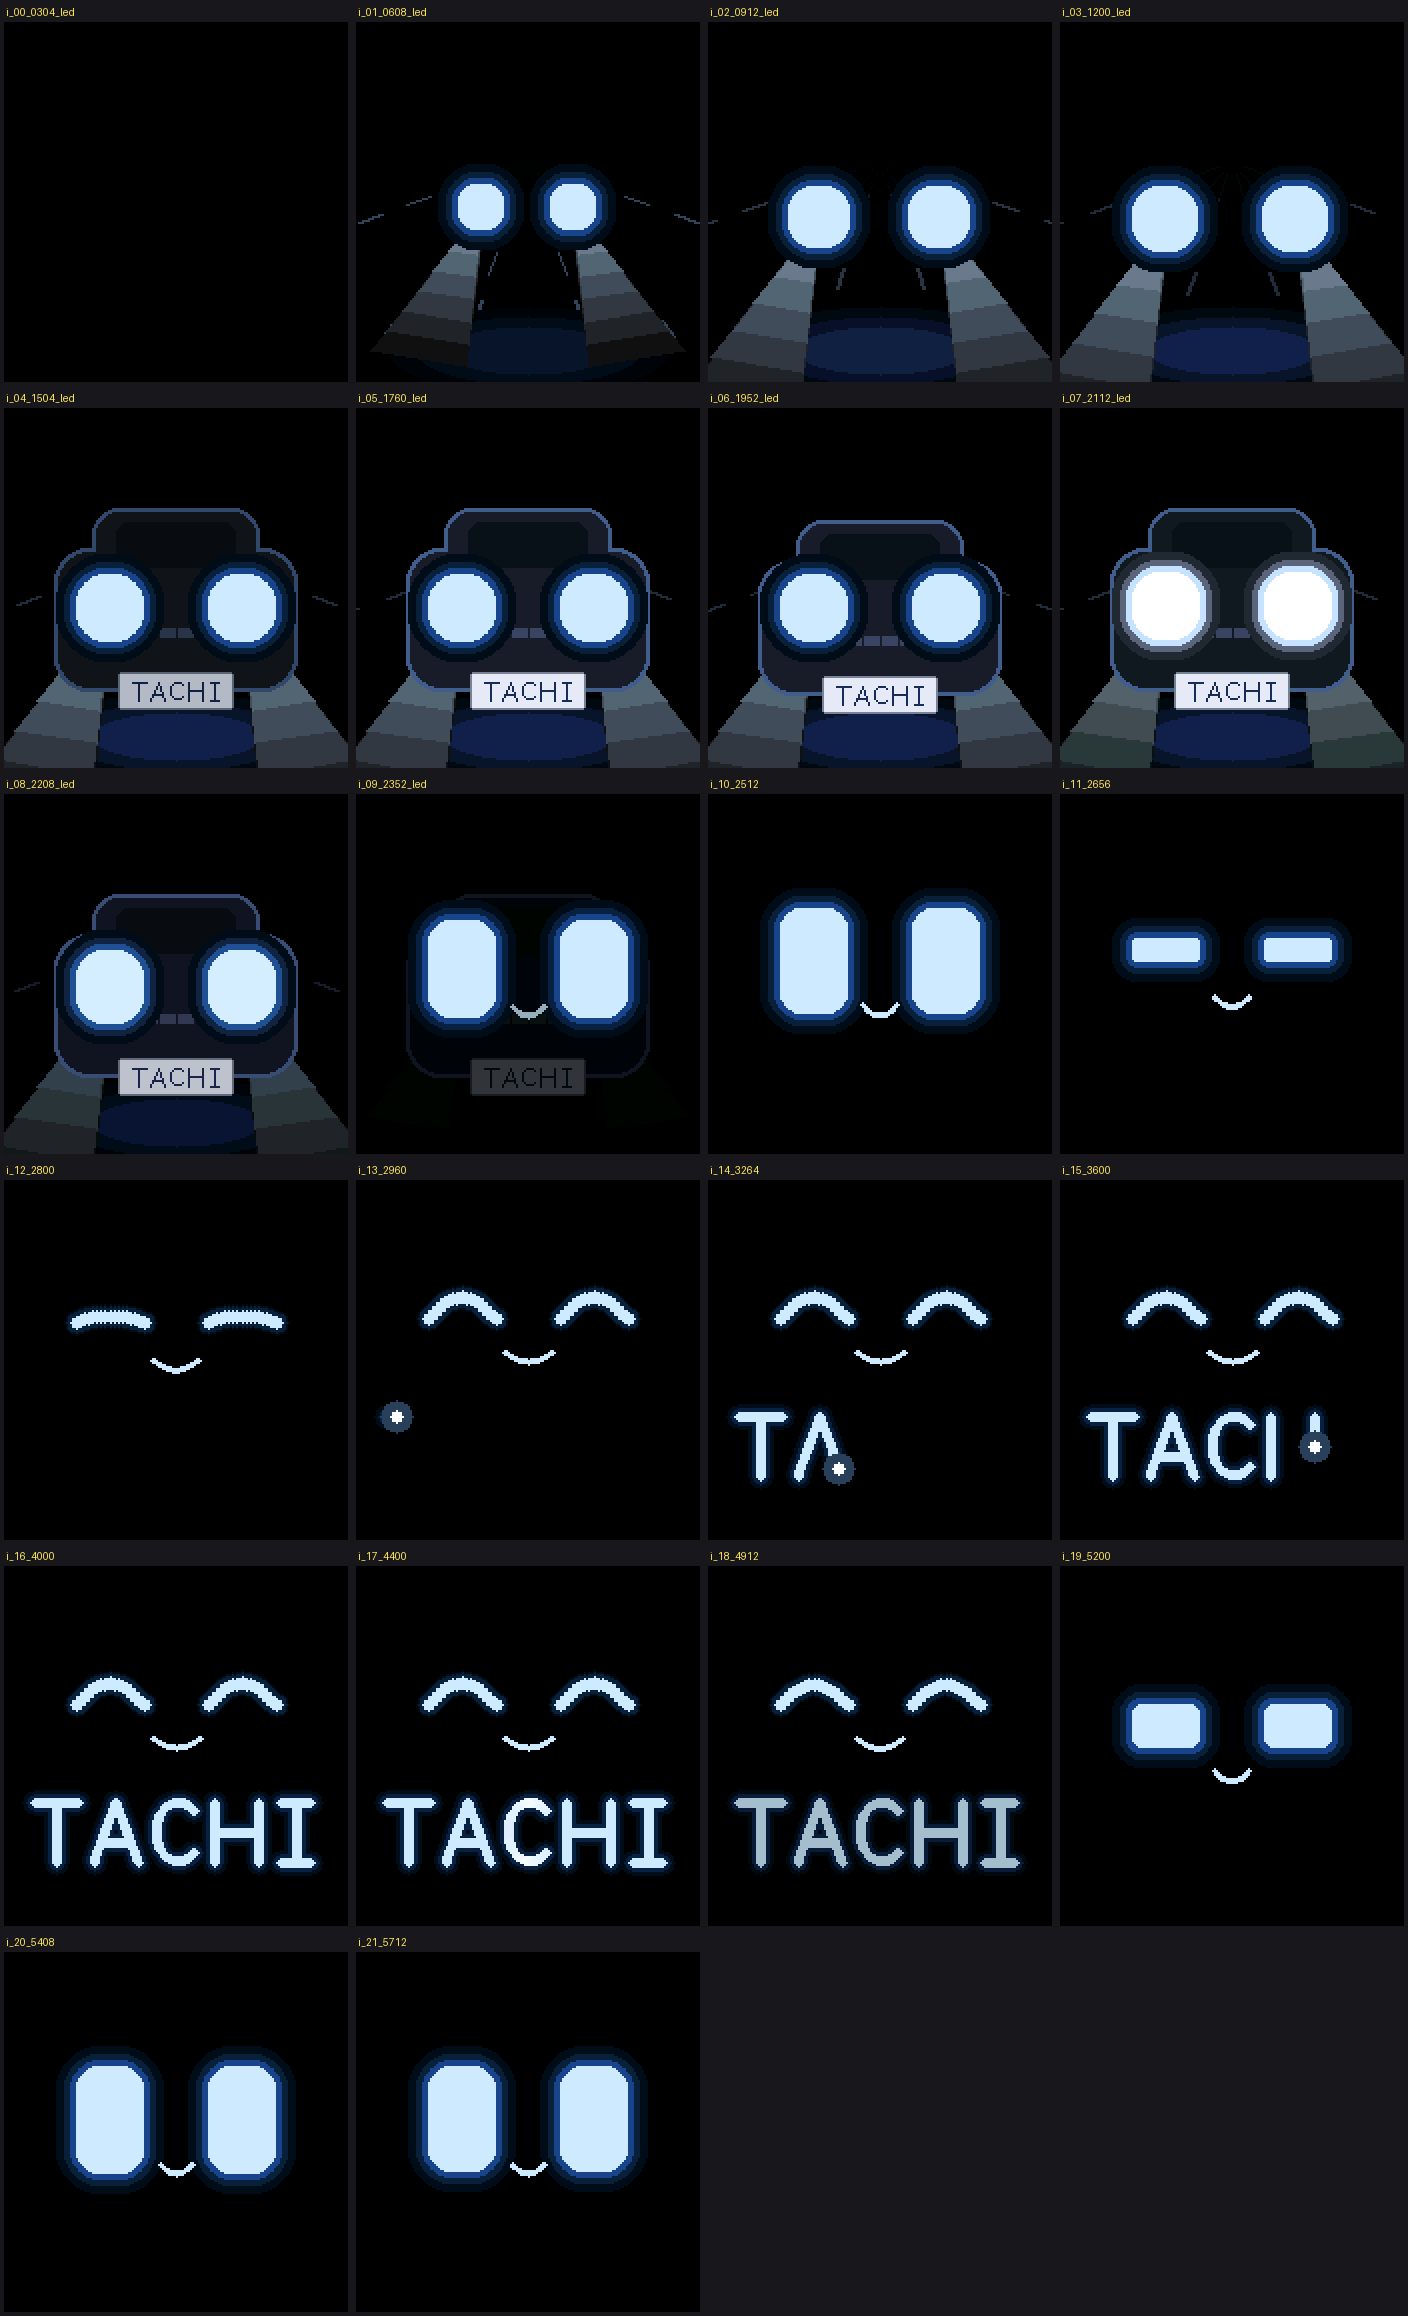
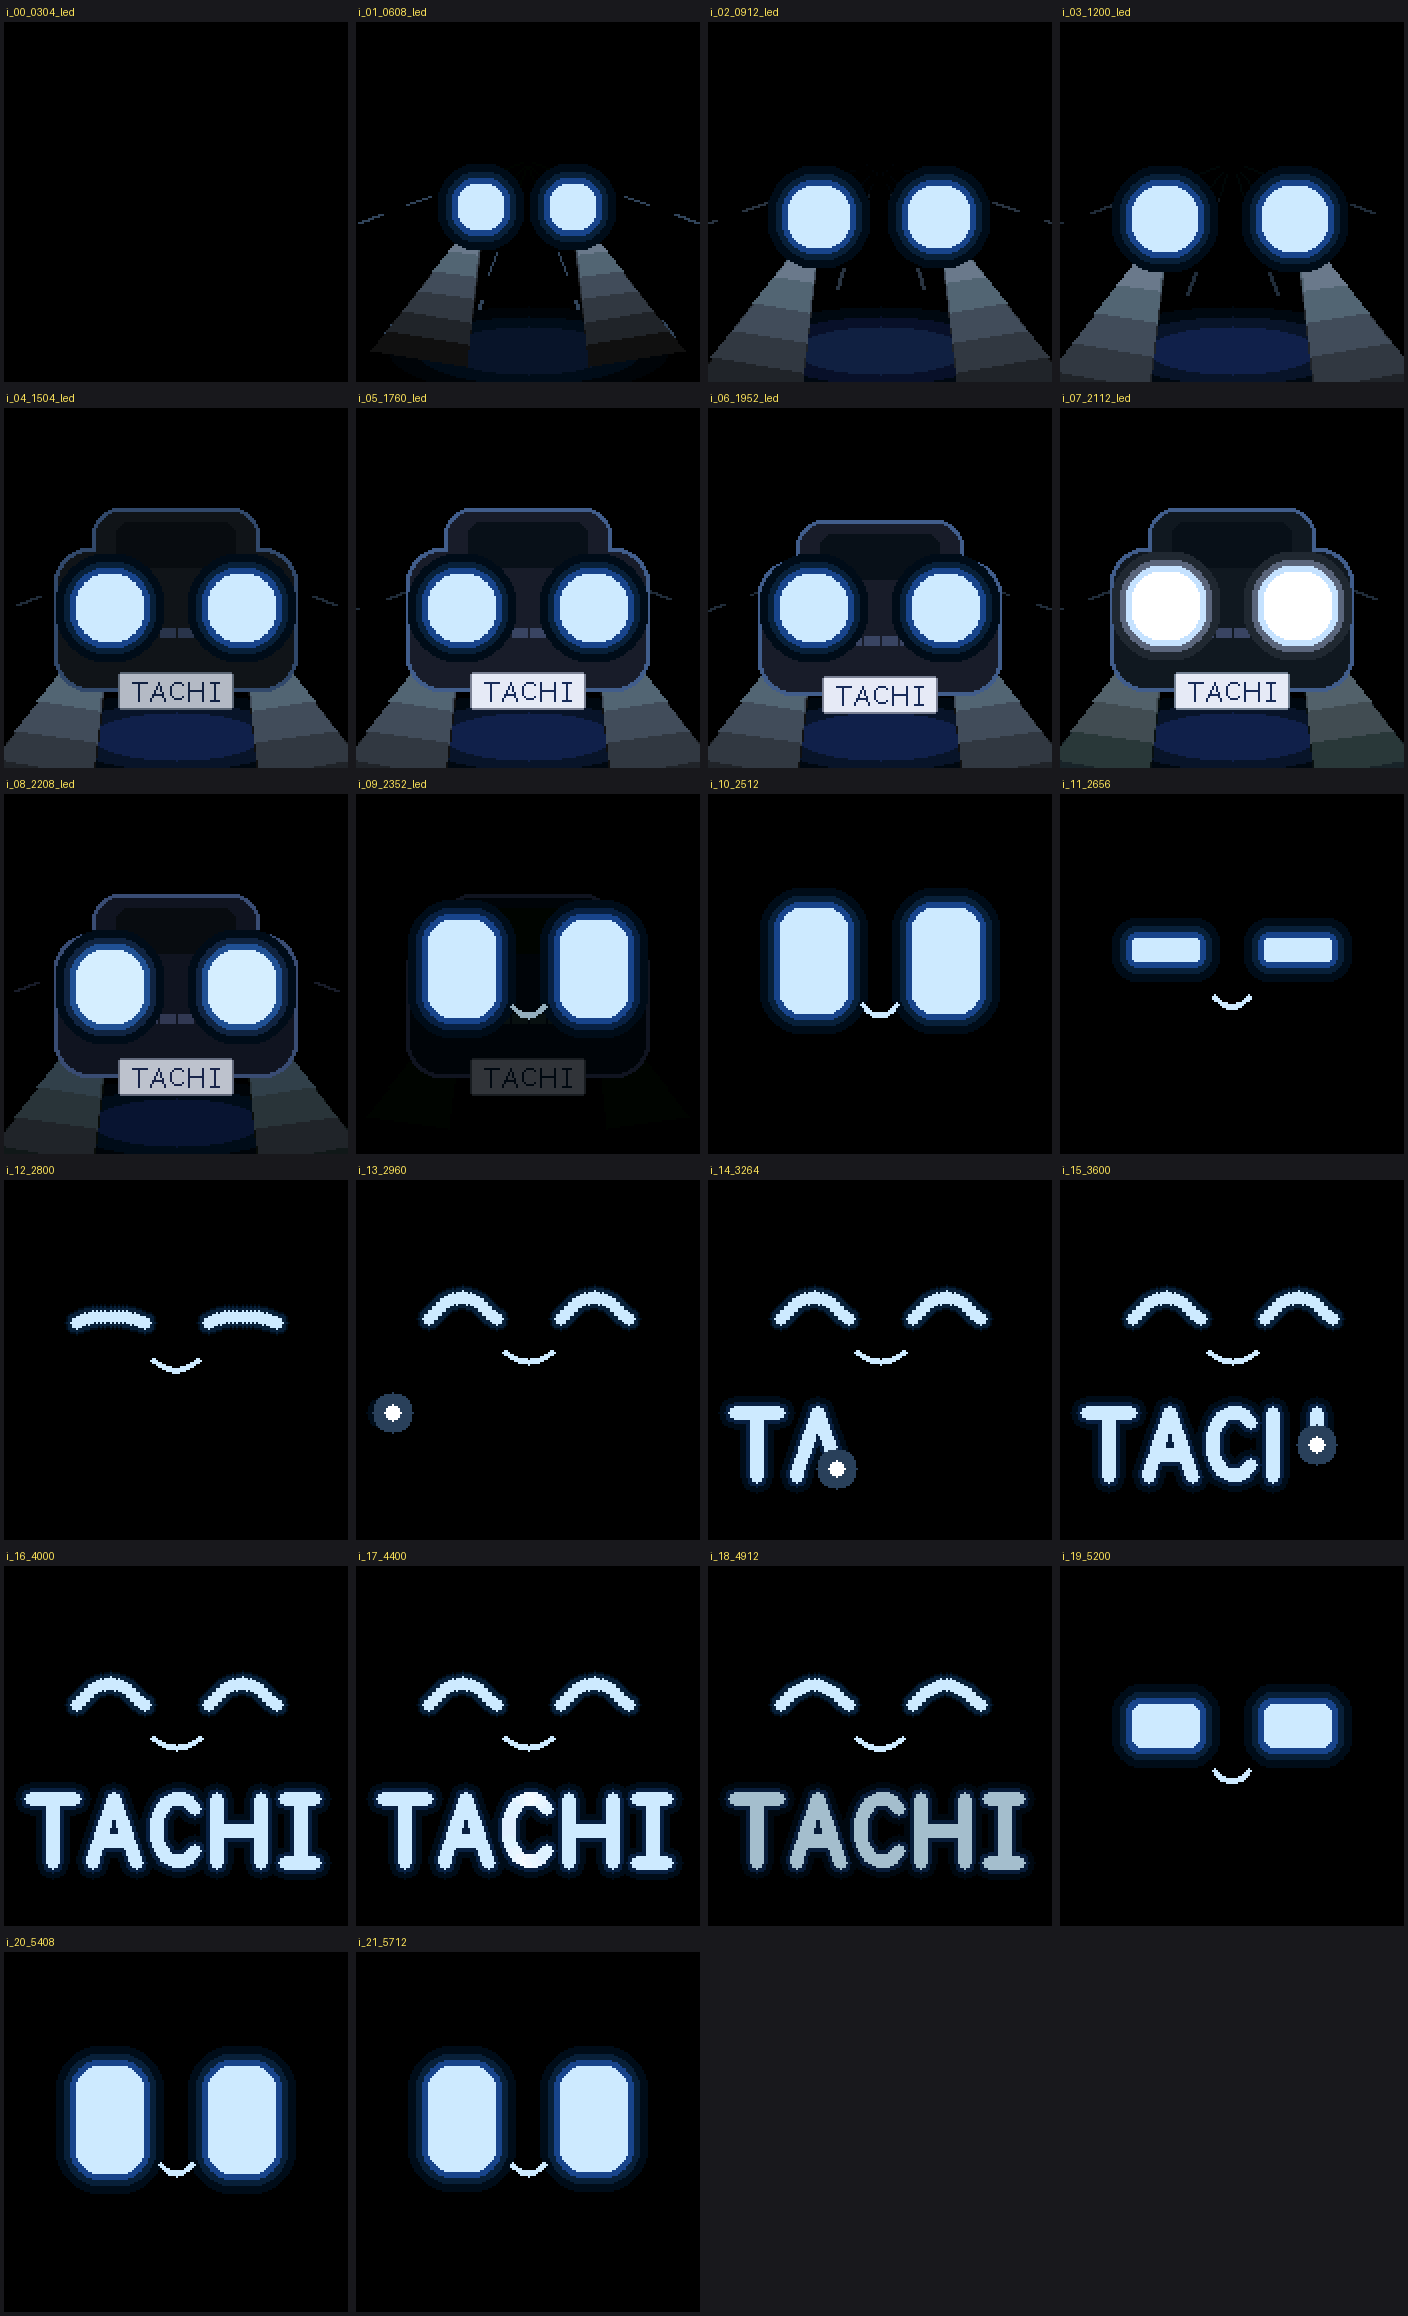
Welcome: bolder TACHI title (taller, wider glow, thicker strokes)
Claude-Session: https://claude.ai/code/session_016m8u25yMjGytuEeYtjZQep

diff --git a/src/mochi.h b/src/mochi.h
@@ -617,7 +617,7 @@ class Mochi {
   // Visits every point of the hand-written "TACHI" that has been written so far (about 1 point per pixel of stroke).
   // f(x, y, letter, writingNow) is called per point; writingNow is true for the letter that is still being drawn.
   template <class F> void titleWalk(float T, float t0, int y0, F f) const {
-    const char *word = "TACHI"; const int lw = 22, lh = 30, gap = 8, n = 5;
+    const char *word = "TACHI"; const int lw = 22, lh = 32, gap = 9, n = 5;      // bold title: letters 22x32 px, 9 px apart
     const int x0 = (W - (n * lw + (n - 1) * gap)) / 2;
     for (int i = 0; i < n; i++) {
       float prog = smoothf((T - (t0 + 190.0f * i)) / 260.0f);
@@ -640,20 +640,20 @@ class Mochi {
   }
   // Glowing "TACHI" written on with a bright tip. alpha 0..1 fades it, shim 0..1 moves a bright band across the finished word.
   template <class G> void drawVectorTitle(G *g, float T, float t0, float alpha, float shim, int y0) const {
-    const int n = 5, total = n * 22 + (n - 1) * 8, x0 = (W - total) / 2;
+    const int n = 5, total = n * 22 + (n - 1) * 9, x0 = (W - total) / 2;
     auto glow = [&](float k) { return rgb((int)(50 * k * alpha), (int)(130 * k * alpha), (int)(255 * k * alpha)); };
     uint16_t wide = glow(26.0f / 255.0f), mid = glow(70.0f / 255.0f);
-    titleWalk(T, t0, y0, [&](float x, float y, int, bool) { g->fillCircle((int16_t)x, (int16_t)y, 6, wide); });
-    titleWalk(T, t0, y0, [&](float x, float y, int, bool) { g->fillCircle((int16_t)x, (int16_t)y, 4, mid); });
+    titleWalk(T, t0, y0, [&](float x, float y, int, bool) { g->fillCircle((int16_t)x, (int16_t)y, 8, wide); });
+    titleWalk(T, t0, y0, [&](float x, float y, int, bool) { g->fillCircle((int16_t)x, (int16_t)y, 5, mid); });
     float tx = 0, ty = 0; bool tip = false;
     titleWalk(T, t0, y0, [&](float x, float y, int, bool writing) {
       float sh = shim > 0 ? clampf(1.0f - fabsf(x - (x0 - 20 + (total + 40) * shim)) / 14.0f, 0, 1) * 0.75f : 0.0f;
-      g->fillCircle((int16_t)x, (int16_t)y, 2, rgb((int)((205 + 50 * sh) * alpha), (int)((235 + 20 * sh) * alpha), (int)(255 * alpha)));
+      g->fillCircle((int16_t)x, (int16_t)y, 3, rgb((int)((205 + 50 * sh) * alpha), (int)((235 + 20 * sh) * alpha), (int)(255 * alpha)));
       if (writing) { tx = x; ty = y; tip = true; }
     });
     if (tip) {
-      g->fillCircle((int16_t)tx, (int16_t)ty, 8, rgb((int)(120 * 90 / 255.0f * alpha), (int)(190 * 90 / 255.0f * alpha), (int)(255 * 90 / 255.0f * alpha)));
-      g->fillCircle((int16_t)tx, (int16_t)ty, 3, rgb((int)(255 * alpha), (int)(255 * alpha), (int)(255 * alpha)));
+      g->fillCircle((int16_t)tx, (int16_t)ty, 10, rgb((int)(120 * 90 / 255.0f * alpha), (int)(190 * 90 / 255.0f * alpha), (int)(255 * 90 / 255.0f * alpha)));
+      g->fillCircle((int16_t)tx, (int16_t)ty, 4, rgb((int)(255 * alpha), (int)(255 * alpha), (int)(255 * alpha)));
     }
   }
 
@@ -753,7 +753,7 @@ class Mochi {
       }
     }
     float ta = smootherf((T - 2850.0f) / 100.0f) * (1.0f - smootherf((T - 4800.0f) / 350.0f));
-    if (T >= 2850.0f && ta > 0.01f) drawVectorTitle(g, T, 2900.0f, ta, (T >= 4050.0f && T <= 4750.0f) ? clampf((T - 4050.0f) / 700.0f, 0, 1) : 0.0f, 118);
+    if (T >= 2850.0f && ta > 0.01f) drawVectorTitle(g, T, 2900.0f, ta, (T >= 4050.0f && T <= 4750.0f) ? clampf((T - 4050.0f) / 700.0f, 0, 1) : 0.0f, 116);
   }
 
   template <class G> void drawTitle(G *g, uint32_t now) const {
